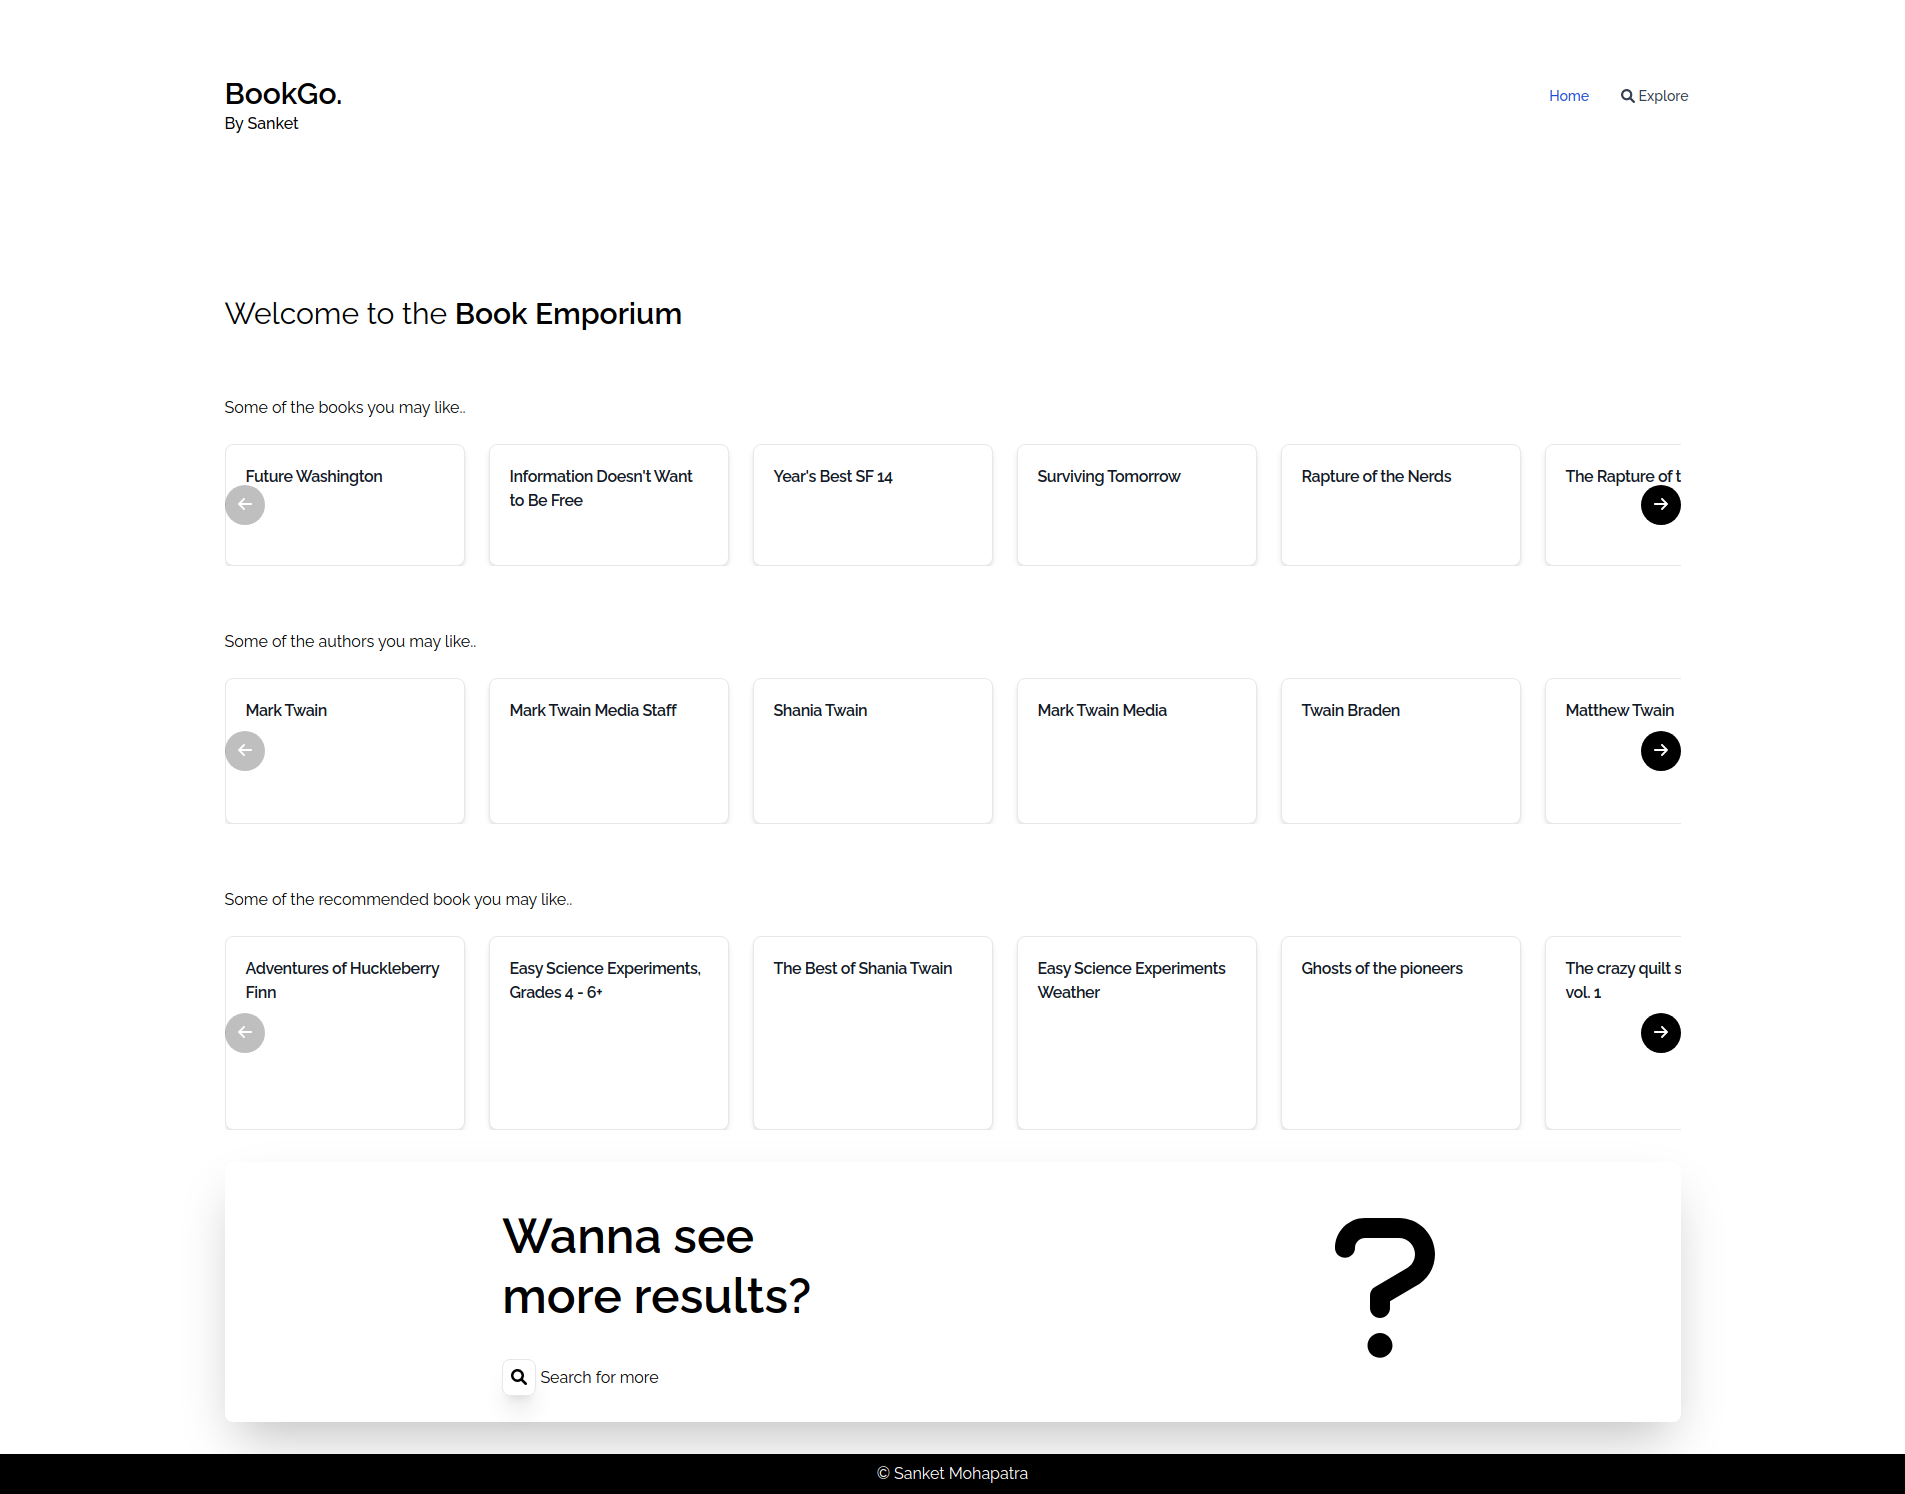
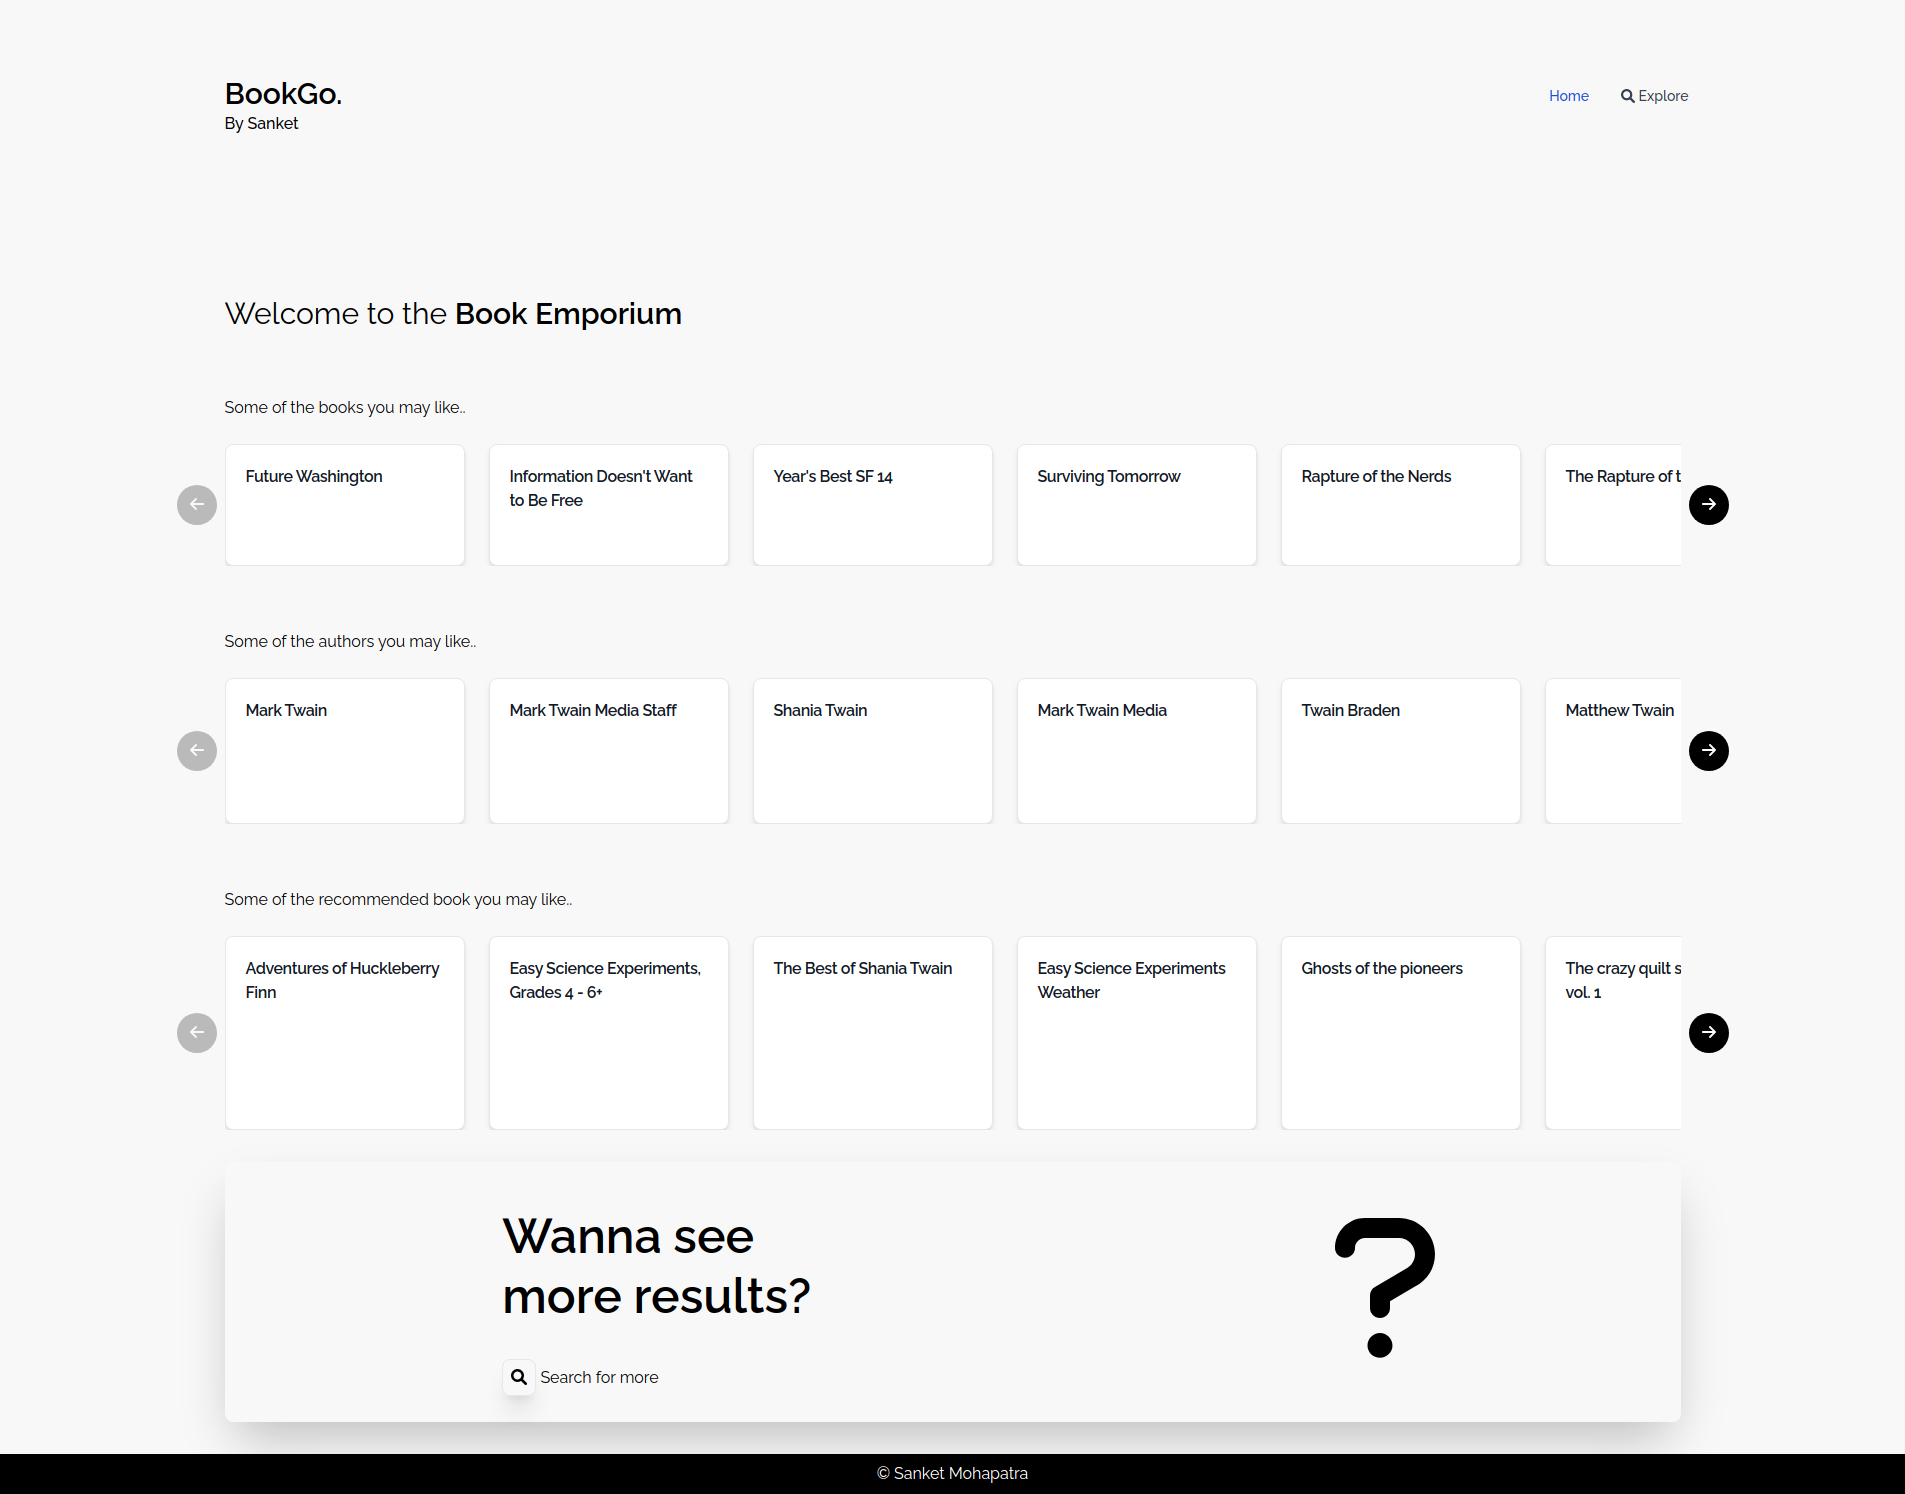
changes

diff --git a/book-app/src/components/Search/index.tsx b/book-app/src/components/Search/index.tsx
@@ -9,6 +9,7 @@ interface IResults {
 function Search() {
   const [searchInput, setSearchInput] = useState("");
   const [resultData, setResultData] = useState<IResults[]>();
+  const [loading, setLoading] = useState(false);
   return (
     <>
       <div className="min-h-screen">
@@ -21,13 +22,25 @@ function Search() {
               onChange={(e) => setSearchInput(e.target.value)}
               onKeyDown={(e) => {
                 if (e.key === "Enter") {
+                  setLoading(true);
                   axios
                     .get(`https://openlibrary.org/search.json?q=${searchInput}`)
-                    .then((e) => setResultData(e.data.docs));
+                    .then((e) => setResultData(e.data.docs))
+                    .then((e) => setLoading(false))
+                    .catch((e) => alert("Sorry something went wrong."));
                 }
               }}
             ></input>
           </div>
+          {loading ? (
+            <>
+              <div className="text-center mt-6 block">
+                <h1 className="text-3xl">Loading...</h1>
+              </div>
+            </>
+          ) : (
+            <></>
+          )}
           <div className="mt-5 grid grid-cols-1 md:grid-cols-2 lg:grid-cols-3 2xl:grid-cols-4 gap-6 mx-auto">
             {resultData?.map((e) => (
               <>

diff --git a/book-app/src/index.css b/book-app/src/index.css
@@ -6,6 +6,7 @@ body {
   margin: 0;
   padding: 0;
   font-family: 'Raleway', sans-serif;
+  background-color: #f8f8f8;
 }
 
 * {
